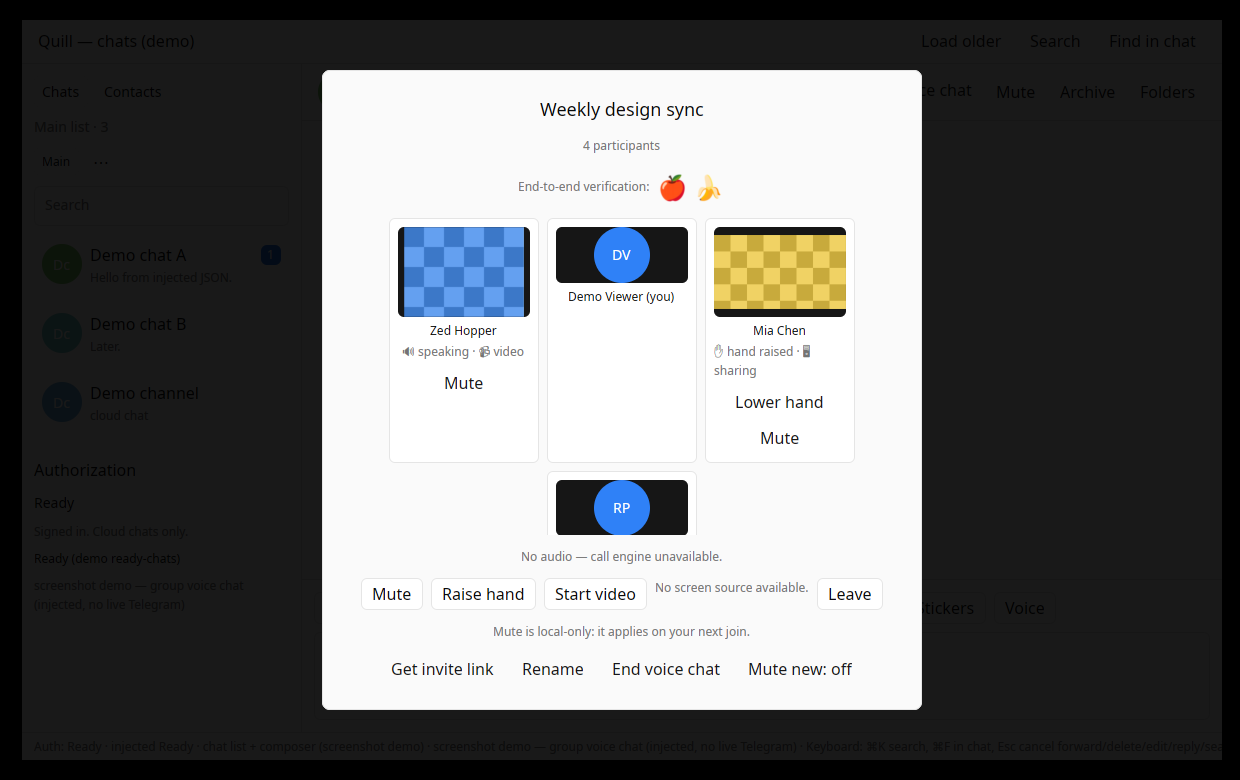
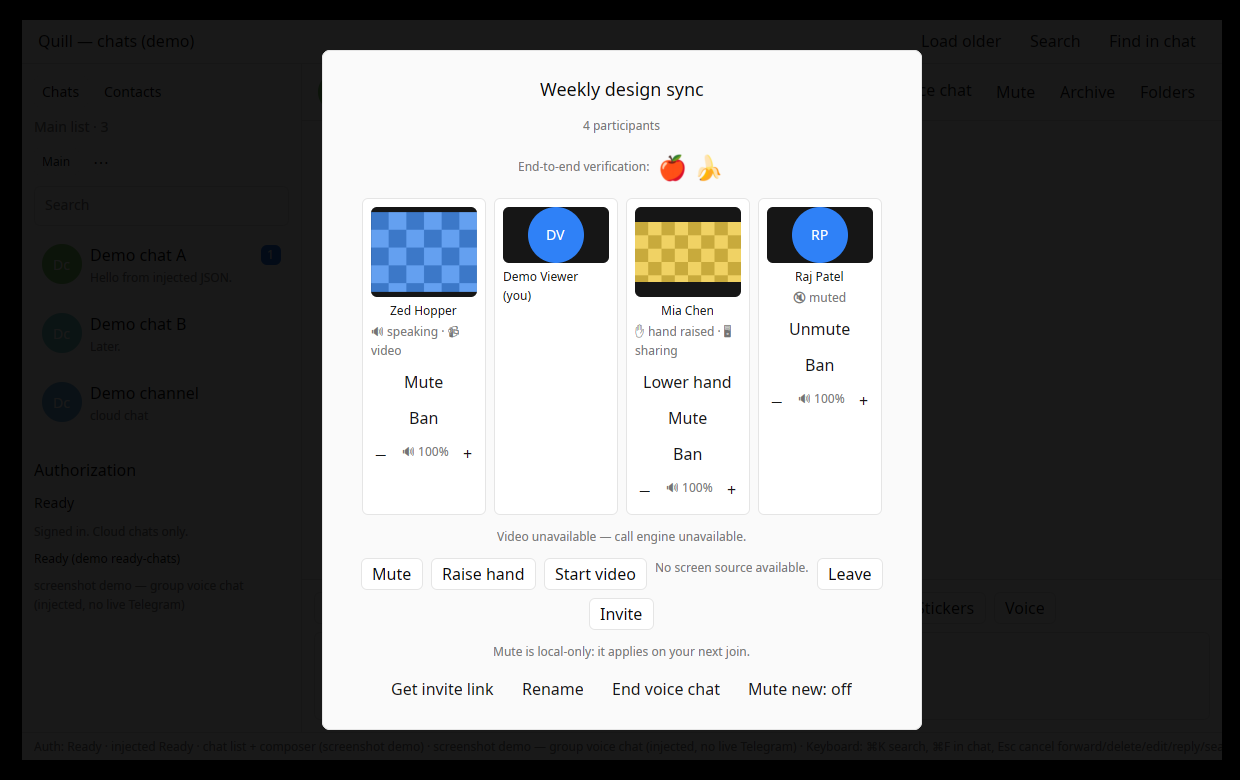
Review fix: C2g group video tiles + screen sharing fixes
- Participant tile: drop the duplicate initials avatar (video_or_avatar
  already carries the fallback); regenerate ready-group-call.png.
- rejoin_group_call: reset transport_ready / join_payload / screen-share
  flags when the rejoin goes out and stop an orphaned native
  presentation before create_group_call replaces the media entry, so
  the pump's join-answer filter sees the new answer and the transport
  reconnects.
- NtgcallsEngine::leave_group_call: ntg_stop_presentation first when a
  presentation was active (privacy: capture ends before the call);
  MockEngine mirrors it for tests.
- Group-call UI copy: no false voice claims on a transport that carries
  no audio (mic/speaker sources are null) - video/transport wording.
- Nits: stop_screen_share uses ensure_instance(); DECISIONS.md sink
  findings wording corrected; calls-group-video-pause gap noted
  (is_paused skip can't honor the schema's frame-override rule).
- C2g DECISIONS.md section gains a 'Review fixes (second pass)' note.

Changed region(s): [[0.2452, 0.0615, 0.7661, 0.5846], [0.2452, 0.5846, 0.7661, 0.9538], [0.6129, 0.5538, 0.6435, 0.5846]]

diff --git a/src/connect.rs b/src/connect.rs
@@ -2608,6 +2608,14 @@ impl<S: JsonSender> ConnectDriver<S> {
         let extra = self
             .session
             .request(RequestPurpose::JoinVideoChat { group_call_id }, None);
+        // Review fix: the new native context starts unconnected, and
+        // `create_group_call` below replaces the old media entry — a
+        // live presentation would be orphaned (still capturing on the
+        // native side). Snapshot it before the entry is replaced.
+        let orphaned_presentation = self
+            .call_engine
+            .as_ref()
+            .is_some_and(|engine| engine.presentation_active(group_call_id));
         let params = self.group_join_params(group_call_id, is_muted);
         if let Err(err) =
             self.sender
@@ -2621,9 +2629,21 @@ impl<S: JsonSender> ConnectDriver<S> {
             }
             return Err(err);
         }
+        if orphaned_presentation && let Some(engine) = self.call_engine.as_deref_mut() {
+            let _ = engine.stop_screen_share(group_call_id);
+        }
         if let Some(call) = self.session.active_group_call.as_mut() {
             call.rejoin_attempts += 1;
             call.reconnecting = false;
+            // Review fix: the fresh native context must run the join
+            // handshake again — reset the transport gate, the stale
+            // answer, and the stale screen-share state so the pump
+            // doesn't drop the new `joinVideoChat` answer.
+            call.transport_ready = false;
+            call.join_payload.clear();
+            call.screen_sharing = false;
+            call.screen_share_pending = false;
+            call.screen_share_answer.clear();
         }
         Ok(extra)
     }
@@ -13729,6 +13749,85 @@ mod tests {
         let _ = std::fs::remove_dir_all(&dir);
     }
 
+    /// Phase C2g (review fix): a rejoin resets the transport handshake —
+    /// the new `joinVideoChat` answer reconnects the fresh native context
+    /// instead of being dropped by the pump's `transport_ready` filter,
+    /// and an orphaned presentation is stopped.
+    #[test]
+    fn group_rejoin_answer_reconnects_native_transport() {
+        let (dir, mut driver, recorder, mut handle, sink, seq) = ready_group_call_driver();
+        let need_rejoin = r#"{"@type":"updateGroupCall","group_call":{"@type":"groupCall","id":555,"unique_id":"999","title":"Design voice","invite_link":"","paid_message_star_count":0,"scheduled_start_date":0,"enabled_start_notification":false,"is_active":true,"is_video_chat":true,"is_live_story":false,"is_rtmp_stream":false,"is_joined":true,"need_rejoin":true,"is_owned":false,"can_be_managed":true,"participant_count":0,"has_hidden_listeners":false,"loaded_all_participants":false,"message_sender_id":null,"recent_speakers":[],"is_my_video_enabled":false,"is_my_video_paused":false,"can_enable_video":true,"mute_new_participants":false,"can_toggle_mute_new_participants":true,"can_send_messages":true,"are_messages_allowed":true,"can_toggle_are_messages_allowed":false,"can_delete_messages":false,"record_duration":0,"is_video_recorded":false,"duration":0}}"#;
+        // Join → answer → the native transport is connected.
+        let extra = driver.join_video_chat(555).expect("join tracked call");
+        ingest_call_json(
+            &mut driver,
+            &seq,
+            &sink,
+            &format!(
+                r#"{{"@type":"text","text":"join-answer","@extra":{}}}"#,
+                extra.0
+            ),
+        );
+        assert!(
+            driver
+                .session
+                .active_group_call
+                .as_ref()
+                .is_some_and(|call| call.transport_ready)
+        );
+        assert_eq!(handle.group_connects().len(), 1);
+        // A live presentation plus tracked screen-share state: the
+        // rejoin must stop the orphaned native presentation and clear
+        // the stale flags.
+        handle.start_screen_share(555).expect("mock presentation");
+        driver
+            .session
+            .active_group_call
+            .as_mut()
+            .expect("tracked call")
+            .screen_sharing = true;
+        driver
+            .session
+            .active_group_call
+            .as_mut()
+            .expect("tracked call")
+            .screen_share_answer = "old-answer".into();
+        // `need_rejoin` auto-rejoins with a fresh offer and a reset
+        // handshake gate.
+        ingest_call_json(&mut driver, &seq, &sink, need_rejoin);
+        assert_eq!(handle.group_offers().len(), 2);
+        assert_eq!(handle.screen_share_stops(), vec![555]);
+        let call = driver
+            .session
+            .active_group_call
+            .as_ref()
+            .expect("tracked call");
+        assert!(!call.transport_ready);
+        assert!(call.join_payload.is_empty());
+        assert!(!call.screen_sharing && !call.screen_share_pending);
+        assert!(call.screen_share_answer.is_empty());
+        // The new answer reconnects the fresh native context.
+        let extra = sent_request(&recorder, "joinVideoChat")["@extra"]
+            .as_str()
+            .unwrap()
+            .to_string();
+        ingest_call_json(
+            &mut driver,
+            &seq,
+            &sink,
+            &format!(r#"{{"@type":"text","text":"rejoin-answer","@extra":"{extra}"}}"#),
+        );
+        assert_eq!(handle.group_connects().len(), 2);
+        assert!(
+            driver
+                .session
+                .active_group_call
+                .as_ref()
+                .is_some_and(|call| call.transport_ready)
+        );
+        let _ = std::fs::remove_dir_all(&dir);
+    }
+
     /// Phase C2g: participant `video_info` / `screen_sharing_video_info`
     /// become engine subscriptions; paused endpoints and the local user
     /// are skipped.
@@ -13816,7 +13915,7 @@ mod tests {
     /// retained frames.
     #[test]
     fn group_call_leave_tears_down_transport_and_frames() {
-        let (dir, mut driver, _recorder, handle, _sink, _seq) = ready_group_call_driver();
+        let (dir, mut driver, _recorder, mut handle, _sink, _seq) = ready_group_call_driver();
         handle.emit_video_frame(
             555,
             VideoFrame {
@@ -13830,8 +13929,12 @@ mod tests {
             },
         );
         assert!(driver.latest_group_video_frame(555, 42, false).is_some());
+        // Review fix: a live presentation is stopped before the call
+        // (privacy — capture ends first).
+        handle.start_screen_share(555).expect("mock presentation");
         driver.leave_group_call().expect("leave");
         assert_eq!(handle.group_leaves(), vec![555]);
+        assert_eq!(handle.screen_share_stops(), vec![555]);
         assert!(driver.latest_group_video_frame(555, 42, false).is_none());
         let _ = std::fs::remove_dir_all(&dir);
     }

diff --git a/src/ui/mod.rs b/src/ui/mod.rs
@@ -10622,7 +10622,6 @@ impl QuillApp {
             .border_1()
             .border_color(cx.theme().border)
             .bg(cx.theme().background)
-            .child(initials_avatar(&name, 48.))
             .child(
                 div()
                     .w_full()
@@ -10920,27 +10919,29 @@ impl QuillApp {
             );
         }
 
-        // The always-visible audio state note — honest about the
+        // The always-visible transport state note — honest about the
         // native group transport (Phase C2g connects it on the
-        // `joinVideoChat` answer).
-        let audio_note = if call.transport_ready {
-            "Voice connected."
+        // `joinVideoChat` answer). The slice carries no audio
+        // (microphone/speaker sources are null), so the copy says
+        // video, not voice.
+        let transport_note = if call.transport_ready {
+            "Video connected."
         } else if call.transport_error.is_some() {
-            "Voice failed to connect."
+            "Video failed to connect."
         } else if self
             .live
             .as_ref()
             .is_some_and(|live| live.driver.group_call_engine_available())
         {
-            "Connecting voice…"
+            "Connecting…"
         } else {
-            "No audio — call engine unavailable."
+            "Video unavailable — call engine unavailable."
         };
         card = card.child(
             div()
                 .text_xs()
                 .text_color(cx.theme().muted_foreground)
-                .child(audio_note),
+                .child(transport_note),
         );
 
         // Self controls. Self mute is local-only: TDLib group calls
@@ -11799,7 +11800,7 @@ impl QuillApp {
                 div()
                     .text_xs()
                     .text_color(cx.theme().muted_foreground)
-                    .child("Join to connect voice."),
+                    .child("Join to connect video."),
             )
             .child(
                 Button::new("group-call-join-btn")

diff --git a/src/calls/engine.rs b/src/calls/engine.rs
@@ -882,6 +882,11 @@ impl CallEngine for MockEngine {
             return Err(EngineError::Unavailable);
         }
         inner.group_leaves.push(group_call_id);
+        // Mirror the real engine: a live presentation is stopped first
+        // (privacy — capture ends before the call).
+        if inner.presentations.contains(&group_call_id) {
+            inner.screen_share_stops.push(group_call_id);
+        }
         inner.presentations.retain(|id| *id != group_call_id);
         Ok(())
     }
@@ -1868,7 +1873,7 @@ impl CallEngine for NtgcallsEngine {
 
     fn stop_screen_share(&mut self, group_call_id: i32) -> Result<(), EngineError> {
         let (instance, chat_id) = (
-            self.instance.ok_or(EngineError::NullInstance)?,
+            self.ensure_instance()?,
             self.group_calls
                 .get(&group_call_id)
                 .ok_or(EngineError::NoSuchCall(group_call_id))?
@@ -1901,6 +1906,19 @@ impl CallEngine for NtgcallsEngine {
             return Ok(());
         };
         if let Some(instance) = self.instance {
+            // Privacy: tear a live presentation down FIRST so screen
+            // capture stops before the call itself.
+            if media.screen_sharing || media.presentation_initialized {
+                // SAFETY: instance is live; `media.chat_id` is this group's chat.
+                let rc =
+                    unsafe { (self.api.ntg_stop_presentation)(instance.as_ptr(), media.chat_id) };
+                if rc != NTG_OK {
+                    return Err(EngineError::Engine {
+                        op: "ntg_stop_presentation",
+                        code: rc,
+                    });
+                }
+            }
             // SAFETY: instance is live; `media.chat_id` is this group's chat.
             let rc = unsafe { (self.api.ntg_stop)(instance.as_ptr(), media.chat_id) };
             if rc != NTG_OK {

diff --git a/docs/screenshots/README.md b/docs/screenshots/README.md
@@ -59,7 +59,7 @@ Captured from a real GPUI window on 2026-09-17 (Linux Xvfb + lavapipe). **Not** 
 | `ready-call-devices.png` | **Phase C2c** Connected voice call from **Zed Hopper** with real-audio status (**Connected**, 0:02 clock), **Mute** / **Hang up**, and microphone/speaker device pickers — **Default - Built-in Microphone** / **USB Headset Microphone** (● pre-selected) and **Default - Built-in Output** / **USB Headset** (● pre-selected). Injected demo devices only, no live Telegram, no real hardware. Driven by `quill --screenshot-demo ready-call-devices`. |
 | `ready-call-reconnecting.png` | **Phase C2d** Ready voice call from **Zed Hopper** while the retained audio connect path is retrying, showing **Reconnecting audio…**. Injected call state only, no live Telegram or network/audio. Driven by `quill --screenshot-demo ready-call-reconnecting`. |
 | `ready-chat-ttl.png` | **Phase B4** Chat-level auto-delete / self-destruct timer: the Ready **secret** chat (id 41) with **Zed** — header shows **Self-destruct: 1h** (`chat.message_auto_delete_time` 3600) with the **⏱ 1h** picker button, the **Self-destruct timer** picker panel open (Off / 5s / 30s / 1m / ● 1h / 1d / 1w), a message with a live **🗑 60m left** countdown chip (`message.auto_delete_in` decaying locally), and the centered **Self-destruct timer set to 1h** service row (`messageChatSetMessageAutoDeleteTime`). Injected `updateNewChat` / `updateNewMessage`, no live Telegram. Driven by `quill --screenshot-demo ready-chat-ttl`. |
-| `ready-group-call.png` | **Phase C3a** Group voice-chat signaling UI: the **"Weekly design sync"** voice chat (id 555) on the **Design voice** supergroup — modal overlay with the title, participant grid (Zed **🔊 speaking** first via `recent_speakers`, Mia **✋ hand raised**, Raj **🔇 muted**, self "Demo Viewer (you)"), **🍎 🍌** E2E verification emojis (`updateGroupCallVerificationState`), self controls (**Mute** / **Raise hand** / **Start video** / **Leave**), admin controls (**Get invite link** / **Rename** / **End voice chat**, **Mute new: off** — gated on `can_be_managed` / `can_toggle_mute_new_participants`), and the always-visible honest note "No audio yet — voice transport ships in Phase C2." (Mute is labeled local-only.) Injected `updateChatVideoChat` / `updateGroupCall` / `updateGroupCallParticipant`, no live Telegram, no media. Driven by `quill --screenshot-demo ready-group-call`. |
+| `ready-group-call.png` | **Phase C2g** Group video-chat UI: the **\"Weekly design sync\"** voice chat (id 555) on the **Design voice** supergroup — modal overlay with the title, participant grid rendering live video tiles (Zed camera frame, Mia screen-share frame — synthetic test-pattern frames, injected demo data; Zed 🔊 speaking first via `recent_speakers`, Mia ✋ hand raised, Raj 🔇 muted, self \"Demo Viewer (you)\"), 🍎 🍌 E2E verification emojis (`updateGroupCallVerificationState`), self controls (**Mute** / **Raise hand** / **Start video** / **Leave**), admin controls (**Get invite link** / **Rename** / **End voice chat**, **Mute new: off** — gated on `can_be_managed` / `can_toggle_mute_new_participants`), and the always-visible honest transport note (\"Video unavailable — call engine unavailable.\" in the demo; this slice carries no audio). Injected `updateChatVideoChat` / `updateGroupCall` / `updateGroupCallParticipant` + synthetic frames, no live Telegram, no media. Driven by `quill --screenshot-demo ready-group-call`. |
 | `ready-group-call-invite.png` | **Phase C2f** Group voice-chat participant management: the same **"Weekly design sync"** voice chat with the **Invite** button pressed — per-participant tiles now carry admin **Mute** and owner-gated **Ban** buttons and a **− 🔊 100% +** per-participant volume stepper (`setGroupCallParticipantVolumeLevel`, clamped 1–20000), plus the **Invite to voice chat** contact picker (Lena Katz / Omar Reyes with **Invite** buttons — users already in the call excluded; `inviteGroupCallParticipant` with typed result handling). Injected fixture, no live Telegram, no media. Driven by `quill --screenshot-demo ready-group-call-invite`. |
 | `ready-group-call-invitation.png` | **Phase C2f** Incoming group voice-chat invitation: a `messageGroupCall` service row in the **Design voice** chat — **📞 Incoming voice chat invitation** with **Accept** / **Decline** buttons (accept refuses while a 1:1 call is active; decline sends `declineGroupCallInvitation`). Injected `updateNewMessage`, no live Telegram. Driven by `quill --screenshot-demo ready-group-call-invitation`. |
 | `fixtures/demo-voice.ogg` | Tiny local file used as the completed voice `local.path` in the voice demo (not a screenshot). |

diff --git a/DECISIONS.md b/DECISIONS.md
@@ -3614,8 +3614,10 @@ device list renders honestly.
   of them. The native `NtgcallsEngine` keys group state by TDLib group
   call id (internally the ntgcalls chat id): `ntg_create_call`,
   `ntg_connect(..., false)`, `ntg_add_incoming_video` /
-  `ntg_remove_incoming_video` (returned sink kept per endpoint for the
-  ssrc->user callback map), `ntg_init_presentation` +
+  `ntg_remove_incoming_video` (the returned sink is deliberately
+  ignored — routing is ssrc-keyed, removal is endpoint-keyed via the
+  endpoints map, so one endpoint's removal never drops another endpoint
+  of the same user), `ntg_init_presentation` +
   `ntg_connect(..., true)` + `ntg_set_stream_sources` with
   `NTG_MEDIA_SOURCE_DESKTOP` (NULL input = default display) for screen
   sharing, `ntg_stop_presentation`, `ntg_stop`. Group camera capture
@@ -3672,7 +3674,8 @@ device list renders honestly.
   (corroborated by the ntgcalls N-API docs: `api-reference.md`,
   `quick-start.md`). The C++ source confirms `add_incoming_video` is a
   `GroupCall`-only method (see the C2e-session-2 note above) — the
-  per-endpoint sink it returns feeds the ssrc->user callback map, so one
+  per-endpoint sink it returns is deliberately ignored: routing is
+  ssrc-keyed and removal is endpoint-keyed via the endpoints map, so one
   endpoint's removal never drops another endpoint of the same user.
 - **Not verifiable without a live group call:** the full native path —
   real `ntg_create_call` offer generation, `ntg_connect` against
@@ -3700,6 +3703,37 @@ device list renders honestly.
   The toggle is gated on an enumerated `MediaDeviceKind::Screen` device
   ("No screen source available." when absent) — feasibility of real
   desktop capture is unverifiable on this VM (no `libntgcalls.so`).
+- **Review fixes (second pass, 2026-09-27):**
+  1. Participant tile rendered the initials avatar twice (once above the
+     video/avatar area, once as the avatar fallback) — the redundant
+     outer avatar is deleted; `docs/screenshots/ready-group-call.png`
+     was regenerated after the fix.
+  2. `rejoin_group_call` replaced the native context via
+     `create_group_call` but never reset `transport_ready`, so the pump's
+     join-answer filter dropped the new `joinVideoChat` answer and the
+     transport never reconnected. The rejoin now resets
+     `transport_ready`/`join_payload`, clears the screen-share flags,
+     and stops an orphaned presentation before the media entry is
+     replaced. Covered by
+     `connect::tests::group_rejoin_answer_reconnects_native_transport`
+     (verified to fail without the reset).
+  3. `NtgcallsEngine::leave_group_call` called `ntg_stop` but never
+     `ntg_stop_presentation` — a live presentation now stops first
+     (privacy: capture ends before the call). Mock mirrors it via
+     `screen_share_stops`; the leave driver test asserts it.
+  4. The joined-card transport note claimed voice ("Voice connected.")
+     while this slice carries no audio (mic/speaker sources are null) —
+     reworded to video/transport copy ("Video connected." /
+     "Connecting…" / "Video failed to connect."), and "Join to connect
+     voice." became "Join to connect video." "Voice chat" as the chat
+     entity name is kept.
+  Nits: `stop_screen_share` now uses `ensure_instance()`; `sink`
+  findings wording corrected (ignored, not fed into the callback map).
+- **`calls-group-video-pause` gap:** `group_video_sources` skips
+  `is_paused` endpoints entirely, so the schema's "ignore `is_paused`
+  if new video frames are received" (td_api.tl:7162) can't be honored —
+  a paused endpoint never subscribes, so frames can't arrive to
+  override it. Kept as a gap.
 - **Out of this slice:** recording/RTMP, video-chat title/schedule/
   invite-link UI, in-call group messages, 1:1 screen sharing
   (`parity:calls-screen-share` stays unchecked — group screen sharing is
